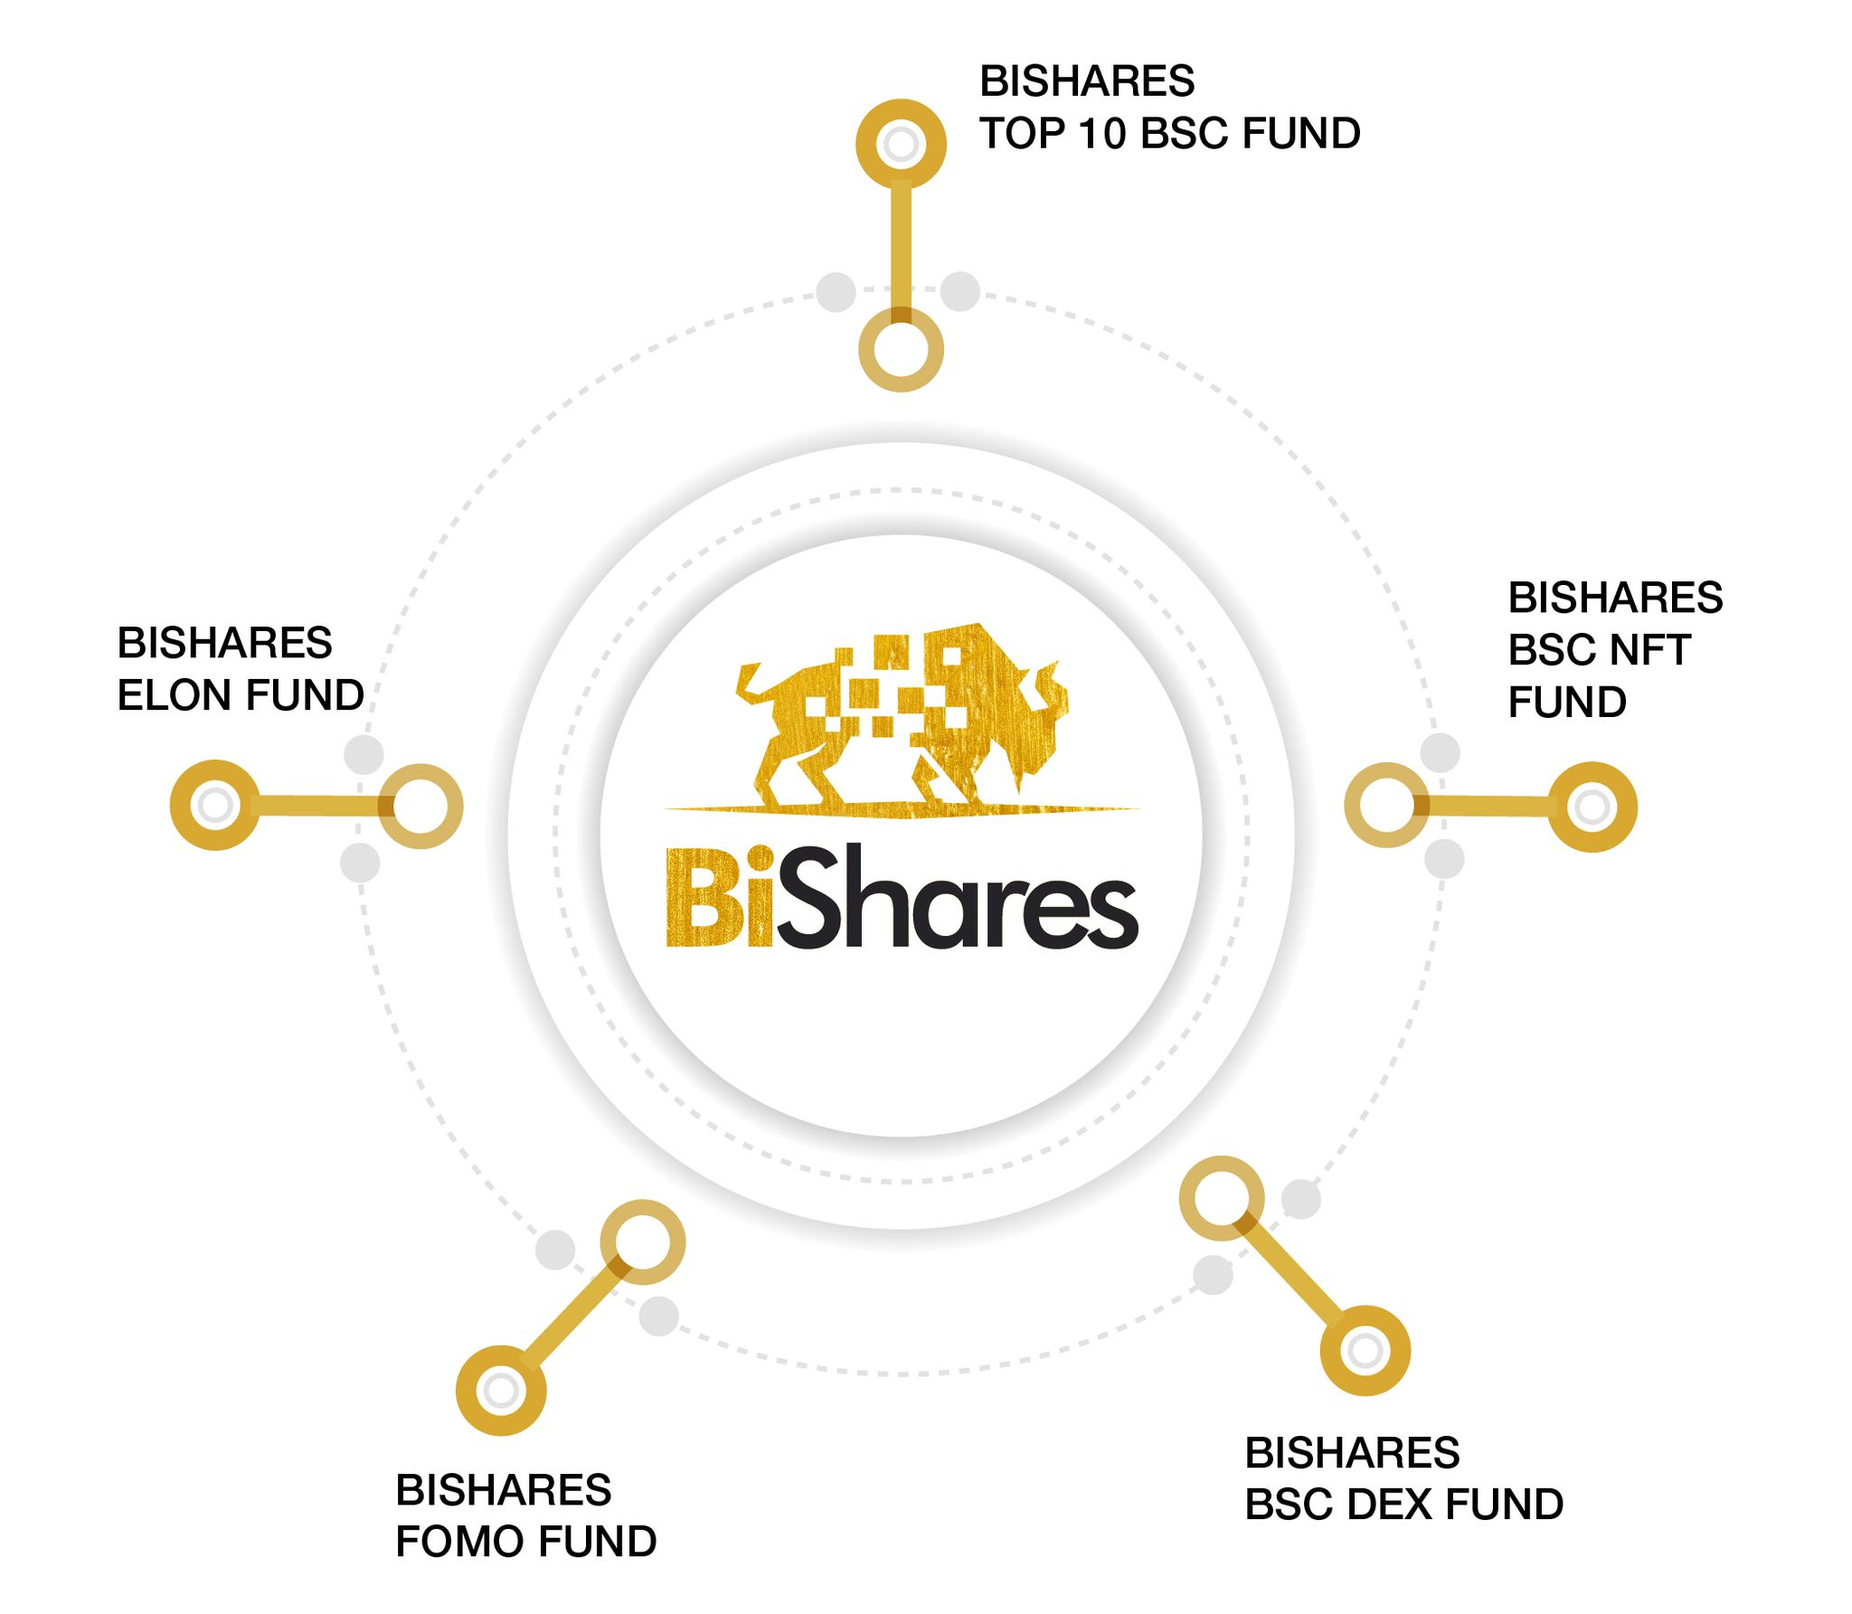
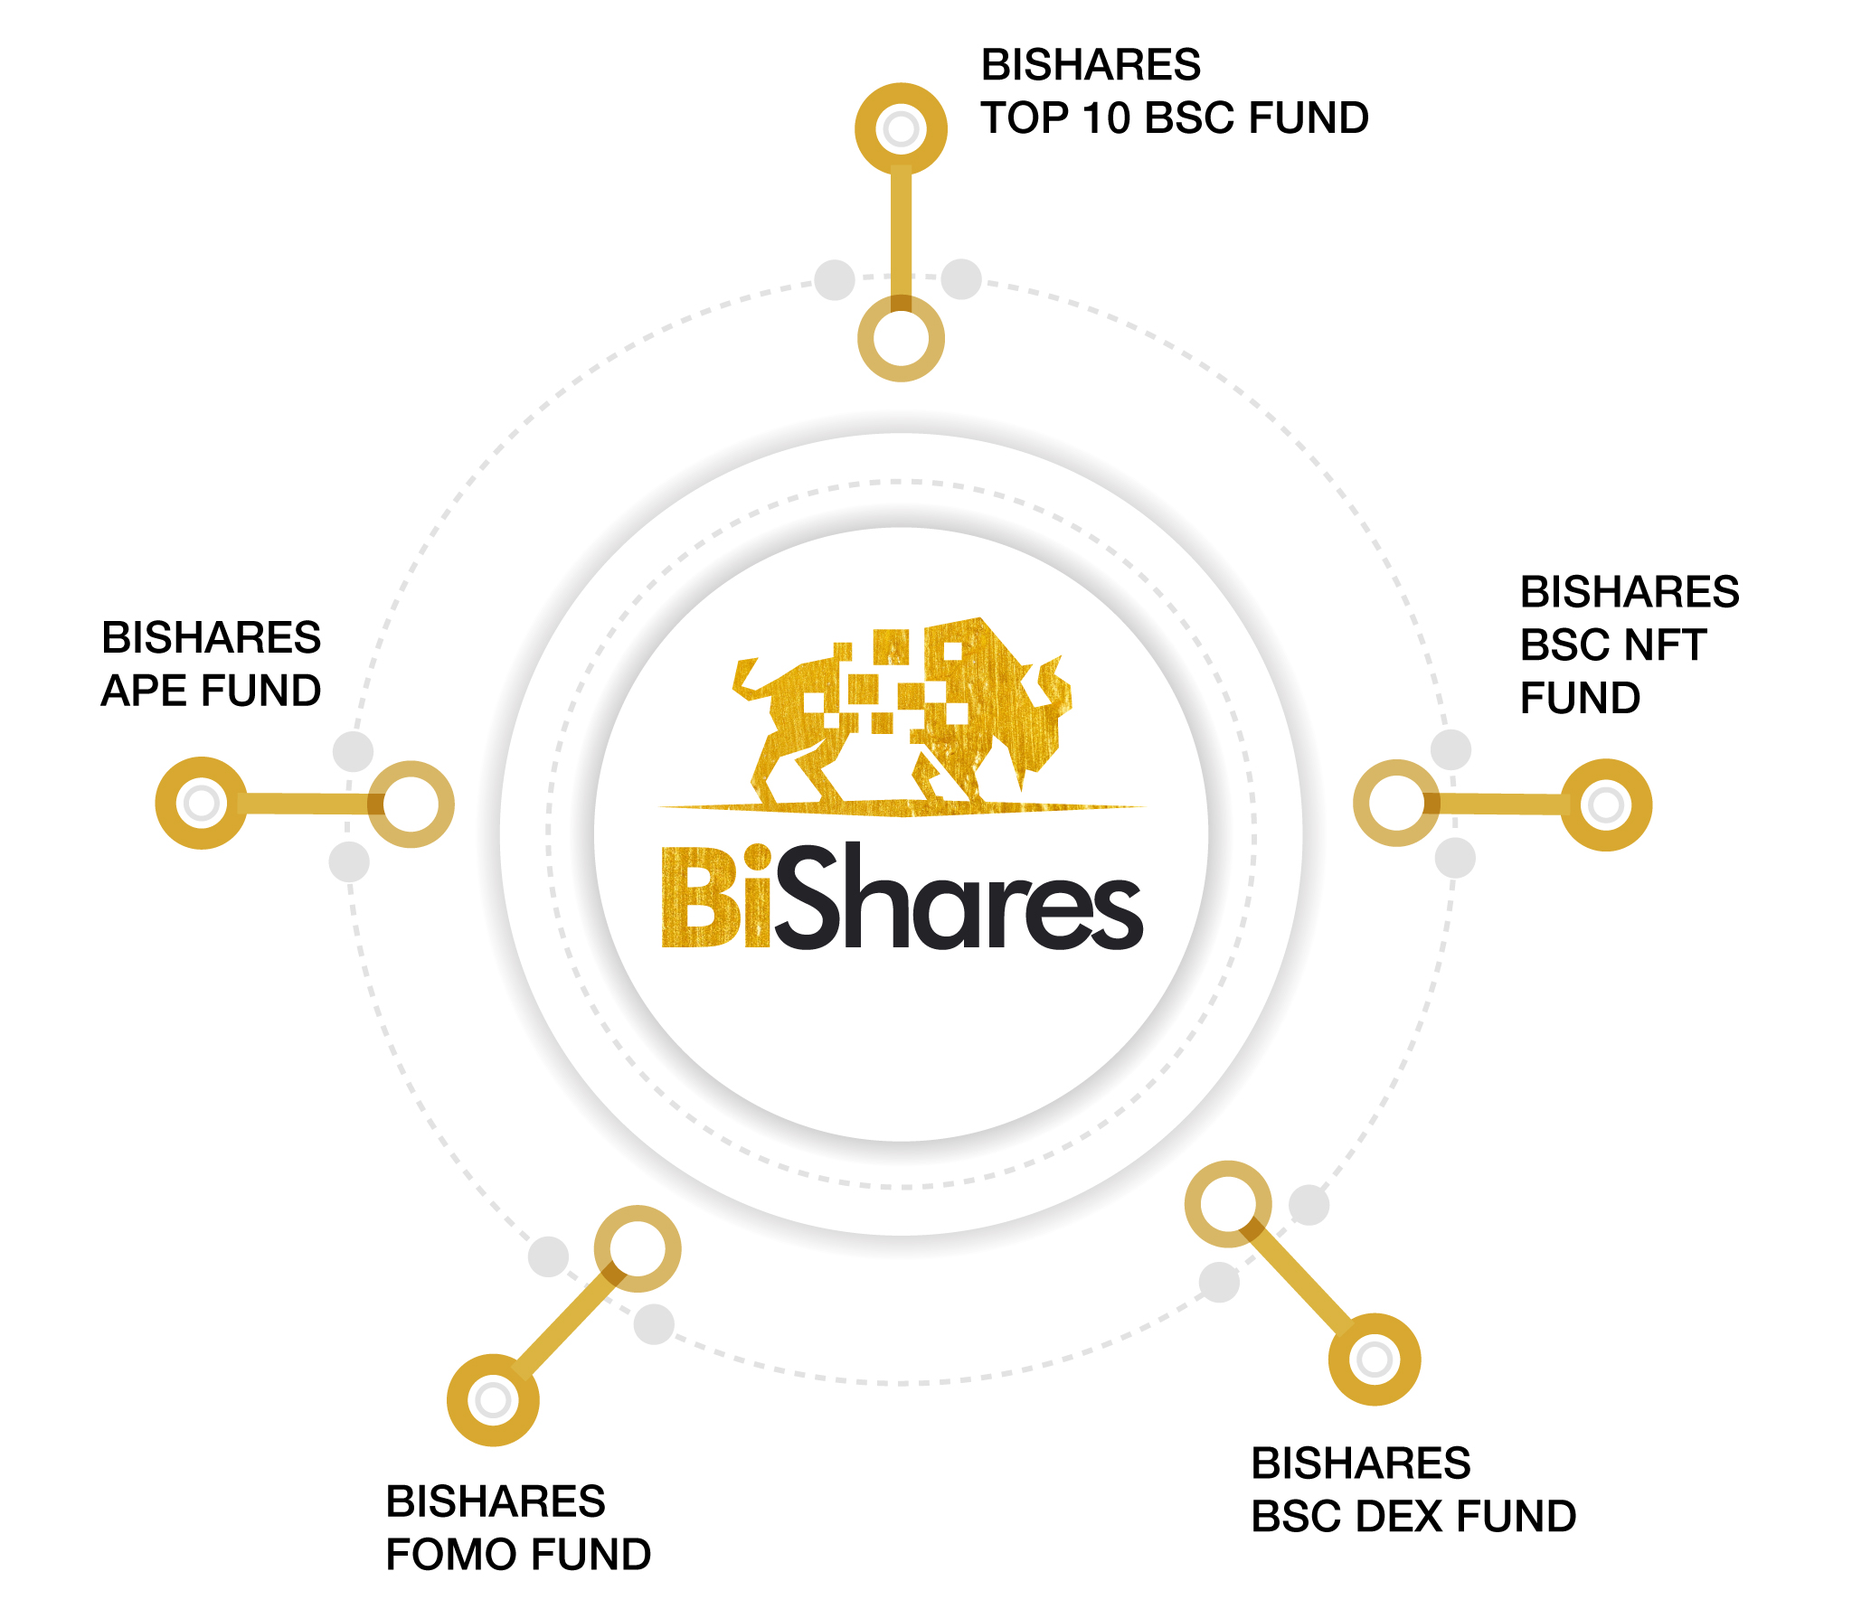
elon to ape

diff --git a/funds.html b/funds.html
@@ -114,6 +114,20 @@
                         <center>
                             <h1 class="display-3 text-xs-center">FUND <span class="text-primary">LIST</span> </h1>
                             <br />
+                            <div class="col-md-6">
+                                <div class="fund-list-card">
+                                    <div class="row">
+                                        <div class="col-md-3 mb-3 mt-15">
+                                            <img src="assets/img/BiShare-Logo-WEB.png" style="height: 70px;" />
+                                        </div>
+                                        <div class="col-md-9 fund-list-element mt-15">
+                                            <h4 class="mb-0">BISON</h4>
+                                            <p class="mb-0">BISON is included in each fund below with a 1% weighting</p>
+                                        </div>
+                                    </div>
+                                </div>
+                            </div>
+                            <br />
                             <h1>BISHARES TOP TEN BSC FUND</h1>
                             <div class="container">
                                 <div id="first" class="row">
@@ -195,9 +209,131 @@
                             </div>
                             <h4 class="mb-1 semi-header text-primary">+12 others being audited will be onboarded</h4>
                             <br />
-                            <h1>BISHARES ELON FUND</h1>
+                            <h1>BISHARES APE FUND</h1>
                             <div class="container">
-                                <div id="fifth" class="row"></div>
+                                <div id="fifth" class="row">
+                                    <div class="col-md-6">
+                                        <div class="fund-list-card">
+                                            <div class="row">
+                                                <div class="col-md-3 mb-3 mt-15">
+                                                    <img src="assets/img/BiShare-Logo-WEB.png" style="height: 70px;" />
+                                                </div>
+                                                <div class="col-md-9 fund-list-element mt-15">
+                                                    <h4 class="mt-15">Coming Soon</h4>
+                                                </div>
+                                            </div>
+                                        </div>
+                                    </div>
+                                    <div class="col-md-6">
+                                        <div class="fund-list-card">
+                                            <div class="row">
+                                                <div class="col-md-3 mb-3 mt-15">
+                                                    <img src="assets/img/BiShare-Logo-WEB.png" style="height: 70px;" />
+                                                </div>
+                                                <div class="col-md-9 fund-list-element mt-15">
+                                                    <h4 class="mt-15">Coming Soon</h4>
+                                                </div>
+                                            </div>
+                                        </div>
+                                    </div>
+                                    <div class="col-md-6">
+                                        <div class="fund-list-card">
+                                            <div class="row">
+                                                <div class="col-md-3 mb-3 mt-15">
+                                                    <img src="assets/img/BiShare-Logo-WEB.png" style="height: 70px;" />
+                                                </div>
+                                                <div class="col-md-9 fund-list-element mt-15">
+                                                    <h4 class="mt-15">Coming Soon</h4>
+                                                </div>
+                                            </div>
+                                        </div>
+                                    </div>
+                                    <div class="col-md-6">
+                                        <div class="fund-list-card">
+                                            <div class="row">
+                                                <div class="col-md-3 mb-3 mt-15">
+                                                    <img src="assets/img/BiShare-Logo-WEB.png" style="height: 70px;" />
+                                                </div>
+                                                <div class="col-md-9 fund-list-element mt-15">
+                                                    <h4 class="mt-15">Coming Soon</h4>
+                                                </div>
+                                            </div>
+                                        </div>
+                                    </div>
+                                    <div class="col-md-6">
+                                        <div class="fund-list-card">
+                                            <div class="row">
+                                                <div class="col-md-3 mb-3 mt-15">
+                                                    <img src="assets/img/BiShare-Logo-WEB.png" style="height: 70px;" />
+                                                </div>
+                                                <div class="col-md-9 fund-list-element mt-15">
+                                                    <h4 class="mt-15">Coming Soon</h4>
+                                                </div>
+                                            </div>
+                                        </div>
+                                    </div>
+                                    <div class="col-md-6">
+                                        <div class="fund-list-card">
+                                            <div class="row">
+                                                <div class="col-md-3 mb-3 mt-15">
+                                                    <img src="assets/img/BiShare-Logo-WEB.png" style="height: 70px;" />
+                                                </div>
+                                                <div class="col-md-9 fund-list-element mt-15">
+                                                    <h4 class="mt-15">Coming Soon</h4>
+                                                </div>
+                                            </div>
+                                        </div>
+                                    </div>
+                                    <div class="col-md-6">
+                                        <div class="fund-list-card">
+                                            <div class="row">
+                                                <div class="col-md-3 mb-3 mt-15">
+                                                    <img src="assets/img/BiShare-Logo-WEB.png" style="height: 70px;" />
+                                                </div>
+                                                <div class="col-md-9 fund-list-element mt-15">
+                                                    <h4 class="mt-15">Coming Soon</h4>
+                                                </div>
+                                            </div>
+                                        </div>
+                                    </div>
+                                    <div class="col-md-6">
+                                        <div class="fund-list-card">
+                                            <div class="row">
+                                                <div class="col-md-3 mb-3 mt-15">
+                                                    <img src="assets/img/BiShare-Logo-WEB.png" style="height: 70px;" />
+                                                </div>
+                                                <div class="col-md-9 fund-list-element mt-15">
+                                                    <h4 class="mt-15">Coming Soon</h4>
+                                                </div>
+                                            </div>
+                                        </div>
+                                    </div>
+                                    <div class="col-md-6">
+                                        <div class="fund-list-card">
+                                            <div class="row">
+                                                <div class="col-md-3 mb-3 mt-15">
+                                                    <img src="assets/img/BiShare-Logo-WEB.png" style="height: 70px;" />
+                                                </div>
+                                                <div class="col-md-9 fund-list-element mt-15">
+                                                    <h4 class="mt-15">Coming Soon</h4>
+                                                </div>
+                                            </div>
+                                        </div>
+                                    </div>
+                                    <div class="col-md-6">
+                                        <div class="fund-list-card">
+                                            <div class="row">
+                                                <div class="col-md-3 mb-3 mt-15">
+                                                    <img src="assets/img/BiShare-Logo-WEB.png" style="height: 70px;" />
+                                                </div>
+                                                <div class="col-md-9 fund-list-element mt-15">
+                                                    <h4 class="mt-15">Coming Soon</h4>
+                                                </div>
+                                            </div>
+                                        </div>
+                                    </div>
+
+                                </div>
                             </div>
                         </center>
                     </div>
@@ -299,7 +435,7 @@
         // top ten
         $(document).ready(function () {
             $.ajax({
-                url: "https://api.coingecko.com/api/v3/coins/markets?vs_currency=usd&ids=binancecoin%2Cpancakeswap-token%2Cmdex%2Calpaca-finance%2Capeswap-finance%2Cvenus%2Crefinable%2Cbeefy-finance%2Ctrust-wallet-token%2Cbakerytoken%2Csafepal%2Cbismuth&order=market_cap_desc&per_page=100&page=1&sparkline=false",
+                url: "https://api.coingecko.com/api/v3/coins/markets?vs_currency=usd&ids=binancecoin%2Cpancakeswap-token%2Capeswap-finance%2Cvenus%2Cbeefy-finance%2Ctrust-wallet-token%2Cbakerytoken%2Csafepal%2Cellipsis%2Cswipe&order=market_cap_desc&per_page=100&page=1&sparkline=false",
                 success: function (result) {
                     result.forEach(function (entry) {
                         html = `<div class="col-md-6">
@@ -435,39 +571,39 @@
         });
 
 
-        // elon
-        $(document).ready(function () {
-            $.ajax({
-                url: "https://api.coingecko.com/api/v3/coins/markets?vs_currency=usd&ids=mirrored-tesla%2Cbinance-bitcoin%2Cdogecoin&order=market_cap_desc&per_page=100&page=1&sparkline=false",
-                success: function (result) {
-                    result.forEach(function (entry) {
-                        html = `<div class="col-md-6">
-                              <div class="fund-list-card">
-                                <div class="row">
-                                    <div class="col-md-3 mb-3 mt-15">
-                                        <img src="${entry.image}" style="height: 70px;" />
-                                    </div>
-                                    <div class="col-md-9 fund-list-element mt-15">
-                                      <h4 class="mb-0">${entry.name} (${entry.symbol.toUpperCase()}) - $${entry.current_price}</h4>
-                                      <p class="mb-0" style="color: rgba(0,0,0,0.7);">${entry.market_cap !== 0 ? '<span> Mcap: <b>$' + entry.market_cap.toLocaleString() + '</span></b>' : ''}</p>
-                                      <p class="mb-0"><span id="f-${entry.id}-address" class="fund-list-address">${getContractAddresses(entry.id)}</span>
-                                      <span onclick="CopyToClipboard('f-${entry.id}-address')" class="btn-icon__inner far fa-copy custom-tooltip">
-                                        <span class="custom-tooltiptext">Copy address to clipboard</span>
-                                      </span>
-                                      <a href="https://bscscan.com/token/${getContractAddresses(entry.id)}" target="_blank">
-                                          <span class="btn-icon__inner fa fa-external-link-square-alt custom-tooltip">
-                                            <span class="custom-tooltiptext">Click to Open link</span>
-                                          </span>
-                                      </a></p>
-                                    </div>
-                                </div>
-                              </div>
-                            </div>`;
-                        $('#fifth').append(html)
-                    });
-                }
-            });
-        });
+        // ape
+        // $(document).ready(function () {
+        //     $.ajax({
+        //         url: "https://api.coingecko.com/api/v3/coins/markets?vs_currency=usd&ids=mirrored-tesla%2Cbinance-bitcoin%2Cdogecoin&order=market_cap_desc&per_page=100&page=1&sparkline=false",
+        //         success: function (result) {
+        //             result.forEach(function (entry) {
+        //                 html = `<div class="col-md-6">
+        //                       <div class="fund-list-card">
+        //                         <div class="row">
+        //                             <div class="col-md-3 mb-3 mt-15">
+        //                                 <img src="${entry.image}" style="height: 70px;" />
+        //                             </div>
+        //                             <div class="col-md-9 fund-list-element mt-15">
+        //                               <h4 class="mb-0">${entry.name} (${entry.symbol.toUpperCase()}) - $${entry.current_price}</h4>
+        //                               <p class="mb-0" style="color: rgba(0,0,0,0.7);">${entry.market_cap !== 0 ? '<span> Mcap: <b>$' + entry.market_cap.toLocaleString() + '</span></b>' : ''}</p>
+        //                               <p class="mb-0"><span id="f-${entry.id}-address" class="fund-list-address">${getContractAddresses(entry.id)}</span>
+        //                               <span onclick="CopyToClipboard('f-${entry.id}-address')" class="btn-icon__inner far fa-copy custom-tooltip">
+        //                                 <span class="custom-tooltiptext">Copy address to clipboard</span>
+        //                               </span>
+        //                               <a href="https://bscscan.com/token/${getContractAddresses(entry.id)}" target="_blank">
+        //                                   <span class="btn-icon__inner fa fa-external-link-square-alt custom-tooltip">
+        //                                     <span class="custom-tooltiptext">Click to Open link</span>
+        //                                   </span>
+        //                               </a></p>
+        //                             </div>
+        //                         </div>
+        //                       </div>
+        //                     </div>`;
+        //                 $('#fifth').append(html)
+        //             });
+        //         }
+        //     });
+        // });
 
 
 
@@ -557,6 +693,11 @@
                 case "mdex":
                     token = "0x9c65ab58d8d978db963e63f2bfb7121627e3a739";
                     break;
+                case "ellipsis":
+                    token = "0xa7f552078dcc247c2684336020c03648500c6d9f";
+                case "swipe":
+                    token = "0x47bead2563dcbf3bf2c9407fea4dc236faba485a";
+                    break;
                 default:
                     token = "0x0000000000000000000000000000000000000000";
                     break;
@@ -568,4 +709,5 @@
 
 
 </body>
+
 </html>
